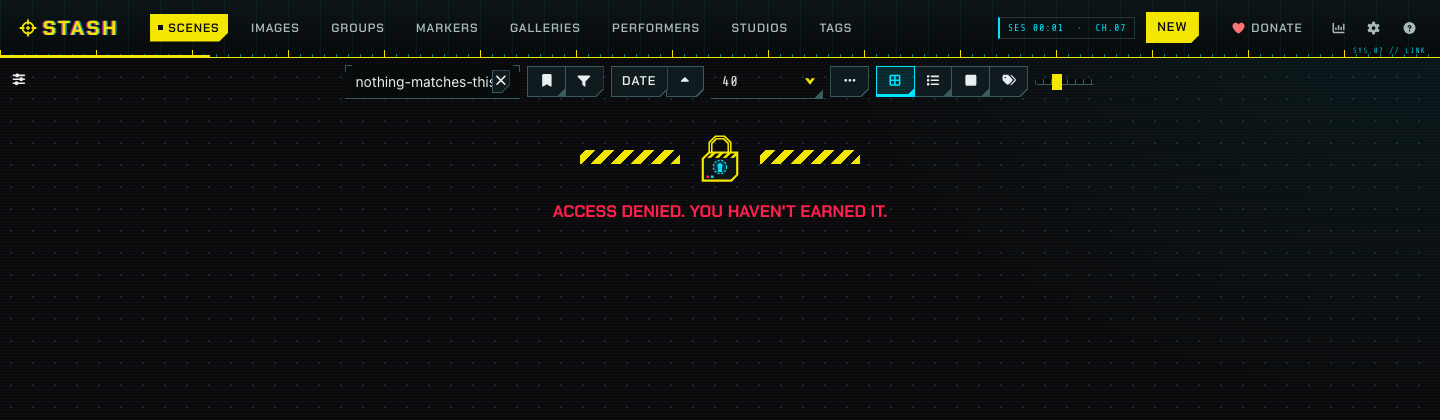
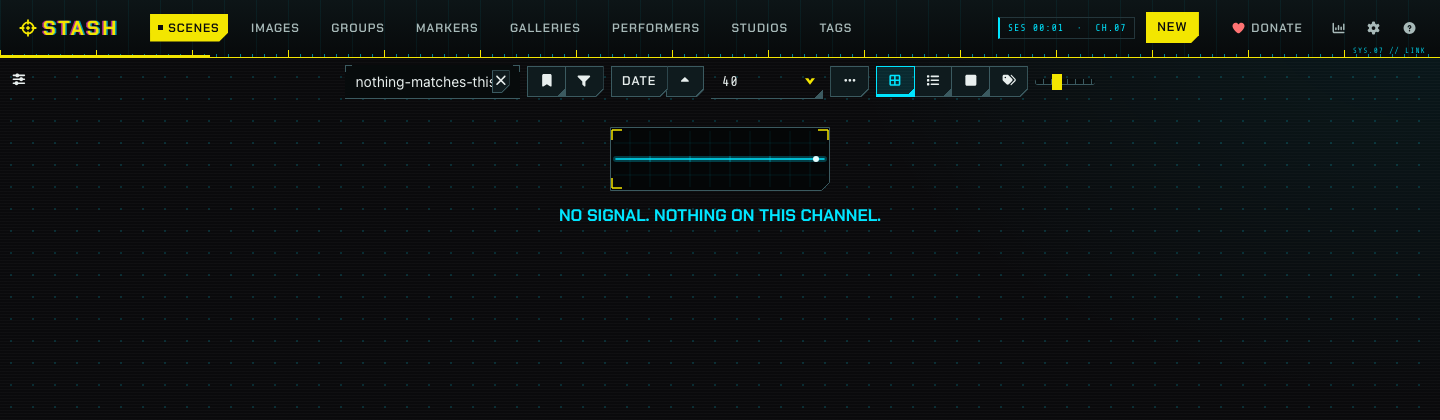
Say No signal on empty lists instead of Access denied
Access denied read like a login failure. An empty list now shows a dead
scope with a flat cyan trace and "No signal. Nothing on this channel.",
and a search with no results says "No signal." The padlock moves to the
design-system page.

Changed region(s): [[0.375, 0.4333, 0.625, 0.5262], [0.4062, 0.3095, 0.5938, 0.4333]]

diff --git a/plugins/overclock/design-system/index.html b/plugins/overclock/design-system/index.html
@@ -174,7 +174,7 @@
             are a deep teal-black. Acid yellow marks what the system wants from
             you: primary buttons, the active tab, ratings and the lock. Data
             cyan carries readouts, info and the scan line. Alert red is kept for
-            danger and denial, magenta appears only as a glitch fringe, and
+            danger and misses, magenta appears only as a glitch fringe, and
             yellow-and-black hazard stripes mark danger and locked states.
           </p>
           <div class="ds-swatches">
@@ -201,7 +201,7 @@
               <div class="meta">
                 <code>--overclock-red</code>
                 <div class="hex">#FF1F4B</div>
-                <div class="role">Alert red: danger and denied</div>
+                <div class="role">Alert red: danger and misses</div>
               </div>
             </div>
             <div class="ds-swatch">
@@ -328,9 +328,10 @@
             Flat technical line art in acid yellow and data cyan on teal-black:
             a neural jack plug on its cable, a targeting reticle, an optical
             implant with an aperture iris, a microchip, a digital padlock with a
-            hazard band, a wired controller and a countdown timer. The padlock
-            ships with the theme for empty lists; the rest appear on this page
-            only. The flat glyphs are CSS masks, so they take any fill.
+            hazard band, a wired controller and a countdown timer. They appear
+            on this page only; the theme ships the glyphs, the hex dump and the
+            flat scope trace for empty lists. The flat glyphs are CSS masks, so
+            they take any fill.
           </p>
           <div class="ds-panel">
             <div class="ds-motifs">
@@ -351,10 +352,9 @@
                 <img src="ds/motifs/chip.svg" alt="" /><span>microchip</span>
               </div>
               <div class="ds-motif">
-                <img
-                  src="Theme-Overclock/assets/icons/padlock.svg"
-                  alt=""
-                /><span>firewall lock</span>
+                <img src="ds/motifs/padlock.svg" alt="" /><span
+                  >firewall lock</span
+                >
               </div>
               <div class="ds-motif">
                 <img src="ds/motifs/deck.svg" alt="" /><span>controller</span>
@@ -921,10 +921,7 @@
         </section>
 
         <section class="ds-section">
-          <h2>
-            <img src="Theme-Overclock/assets/icons/padlock.svg" alt="" />Forms
-            and menus
-          </h2>
+          <h2><img src="ds/motifs/padlock.svg" alt="" />Forms and menus</h2>
           <p class="ds-lede">
             Inputs are dark fields with a bottom rule and corner ticks. Focus
             turns the frame yellow and starts a blinking block. Menus, popovers
@@ -1241,9 +1238,9 @@
           <p class="ds-lede">
             The loader is a segmented bar that counts its percentage up over a
             scrolling hex dump, and Calm mode holds it on a still frame at 64%.
-            An empty list gets an access denied panel with hazard stripes and a
-            lock, and keeps the lock with no line under Plain labels or in SFW
-            mode.
+            An empty list gets a dead scope with a flat cyan trace and the line
+            No signal, and keeps the scope with no line under Plain labels or in
+            SFW mode.
           </p>
           <div class="ds-row" style="align-items: stretch">
             <div class="ds-panel" style="min-width: 260px">

diff --git a/plugins/overclock/src/css/95-sfw.css b/plugins/overclock/src/css/95-sfw.css
@@ -1,13 +1,13 @@
 /*
- * Empty states: access denied, a lock between hazard stripes. Stash marks an
- * empty list with nothing but "0-0 of 0" in .paginationIndex, and
- * overclock.js adds the line; without the voice (Plain labels or SFW mode)
- * the list keeps the lock and no line.
+ * Empty states: no signal, a flat trace on a dead scope. Stash marks an empty
+ * list with nothing but "0-0 of 0" in .paginationIndex, and overclock.js adds
+ * the line; without the voice (Plain labels or SFW mode) the list keeps the
+ * scope and no line. Cyan, since nothing here is an error.
  */
 .overclock-empty,
 .paginationIndex[data-overclock-empty]:not([data-overclock-empty='']) {
   align-items: center;
-  color: var(--overclock-red);
+  color: var(--overclock-cyan);
   display: flex;
   flex-direction: column;
   font-family: var(--overclock-font-display);
@@ -17,25 +17,22 @@
   letter-spacing: 0.06em;
   line-height: 1.15;
   text-align: center;
-  text-shadow: -1px 0 0 rgb(0 229 255 / 40%);
+  text-shadow: 0 0 12px rgb(0 229 255 / 35%);
   text-transform: uppercase;
 }
 
 .overclock-empty::before,
 .paginationIndex[data-overclock-empty]::before {
-  background:
-    url('assets/icons/padlock.svg') center / 58px 58px no-repeat,
-    var(--overclock-hazard) left center / calc(50% - 40px) 14px no-repeat,
-    var(--overclock-hazard) right center / calc(50% - 40px) 14px no-repeat;
+  background: url('assets/icons/flatline.svg') center / contain no-repeat;
   content: '';
-  height: 60px;
-  max-width: 280px;
+  height: 64px;
+  max-width: 220px;
   width: 100%;
 }
 
 .overclock-empty::after {
   color: var(--overclock-dim);
-  content: 'Err 403 · clearance insufficient';
+  content: 'Ch.07 · no carrier';
   font: 0.66rem/1 var(--overclock-font-label);
   letter-spacing: 0.14em;
   text-shadow: none;
@@ -53,7 +50,7 @@
 }
 
 .paginationIndex[data-overclock-empty]:not([data-overclock-empty='']) {
-  color: var(--overclock-red) !important;
+  color: var(--overclock-cyan) !important;
   font-size: 0;
 }
 

diff --git a/plugins/overclock/src/js/overclock.js b/plugins/overclock/src/js/overclock.js
@@ -14,7 +14,7 @@
   const VOICE_COPY = new Map([
     ['Loading…', 'Syncing…'],
     ['Loading plugins…', 'Loading your restraints…'],
-    ['No results found.', 'Access denied.'],
+    ['No results found.', 'No signal.'],
     ['No tasks are currently running.', 'Idle. Hands where I can see them.'],
     ['Performer Favourited', 'Target locked.'],
     ['Started generating', 'Countdown started.'],
@@ -27,7 +27,7 @@
   const EMPTY_STATES = new Set(['No results found.'])
 
   // Stash marks an empty list with nothing but "0-0 of 0" in .paginationIndex.
-  const EMPTY_LIST_LINE = "Access denied. You haven't earned it."
+  const EMPTY_LIST_LINE = 'No signal. Nothing on this channel.'
 
   // Yellow and cyan pixels, data shards, hex digits and a red fringe; SFW
   // mode drops the red.

diff --git a/plugins/overclock/docs/design.md b/plugins/overclock/docs/design.md
@@ -8,21 +8,21 @@ The design-system page (`design-system/index.html`, built to `dist/site/overcloc
 
 Every rule in `src/css` reads these custom properties, because Stash compiles its colours from SCSS and exposes none of its own.
 
-| Token                 | Hex       | Use                                              |
-| --------------------- | --------- | ------------------------------------------------ |
-| `--overclock-yellow`  | `#F3E600` | Primary, active, ratings, the lock, focus        |
-| `--overclock-cyan`    | `#00E5FF` | Readouts, info, links, the scan line, matches    |
-| `--overclock-red`     | `#FF1F4B` | Danger, denied, misses, the glitch's left fringe |
-| `--overclock-magenta` | `#FF2FD0` | Glitch fringe only                               |
-| `--overclock-panel`   | `#0D1416` | Cards, panels, menus                             |
-| `--overclock-raised`  | `#122024` | Raised panels                                    |
-| `--overclock-line`    | `#3B5A60` | Frame lines, brackets, ticks                     |
-| `--overclock-bg`      | `#0A0A0C` | Page, behind a dot grid                          |
-| `--overclock-text`    | `#E8EFEE` | Text                                             |
-| `--overclock-muted`   | `#A8BAB9` | Secondary text, 9.2:1 on panels                  |
-| `--overclock-dim`     | `#86999A` | Captions and labels, 6.2:1 on panels             |
+| Token                 | Hex       | Use                                           |
+| --------------------- | --------- | --------------------------------------------- |
+| `--overclock-yellow`  | `#F3E600` | Primary, active, ratings, the lock, focus     |
+| `--overclock-cyan`    | `#00E5FF` | Readouts, info, links, the scan line, matches |
+| `--overclock-red`     | `#FF1F4B` | Danger, misses, the glitch's left fringe      |
+| `--overclock-magenta` | `#FF2FD0` | Glitch fringe only                            |
+| `--overclock-panel`   | `#0D1416` | Cards, panels, menus                          |
+| `--overclock-raised`  | `#122024` | Raised panels                                 |
+| `--overclock-line`    | `#3B5A60` | Frame lines, brackets, ticks                  |
+| `--overclock-bg`      | `#0A0A0C` | Page, behind a dot grid                       |
+| `--overclock-text`    | `#E8EFEE` | Text                                          |
+| `--overclock-muted`   | `#A8BAB9` | Secondary text, 9.2:1 on panels               |
+| `--overclock-dim`     | `#86999A` | Captions and labels, 6.2:1 on panels          |
 
-Yellow marks what the system wants from the viewer. Cyan carries information. Red is kept for danger and denial, and yellow-and-black hazard stripes (`--overclock-hazard`) mark danger and locked states and nothing else.
+Yellow marks what the system wants from the viewer. Cyan carries information. Red is kept for danger and misses, and yellow-and-black hazard stripes (`--overclock-hazard`) mark danger and locked states and nothing else.
 
 ## Type
 
@@ -34,7 +34,7 @@ Two fixed layers sit behind the page, under every picture: a faint cyan dot grid
 
 ## Motifs and glyphs
 
-The motifs are flat technical line art in yellow and cyan on teal-black: a neural jack plug on its cable, a targeting reticle, an optical implant with an aperture iris, a microchip, a digital padlock with a hazard band, a wired controller and a countdown timer. Only the padlock ships in the plugin, for empty lists; the rest live with the design-system page (`design-system/ds/motifs`), which keeps the plugin small.
+The motifs are flat technical line art in yellow and cyan on teal-black: a neural jack plug on its cable, a targeting reticle, an optical implant with an aperture iris, a microchip, a digital padlock with a hazard band, a wired controller and a countdown timer. They live with the design-system page (`design-system/ds/motifs`), which keeps the plugin small. The plugin ships the glyphs, the hex dump behind the loader and `flatline.svg`, a dead scope with a flat trace for empty lists.
 
 Glyphs (`glyph-*.svg`) are flat silhouettes used as CSS masks, so one file takes any fill: `glyph-charge` and `glyph-charge-outline` for a rating and an empty rating, `glyph-reticle-open` and `glyph-reticle` for the favourite off and on, `glyph-bolt` for the O counter and `glyph-shard` for bursts.
 
@@ -48,7 +48,7 @@ Glyphs (`glyph-*.svg`) are flat silhouettes used as CSS masks, so one file takes
 - **Tags** are clipped mono chips with a cyan status light.
 - **Forms** are dark fields with a bottom rule and corner ticks. Focus turns the frame yellow and starts a blinking block cursor. Checkboxes and switches are square.
 - **Overlays** (menus, popovers, tooltips, toasts and modals) are clipped teal-black panels with a yellow left rule. A toast carries a `STASH` band and a message number, with a red variant for errors. A modal's header is a plain HUD bar, or a hazard band when its footer holds a danger button.
-- **Loading** is a segmented bar that counts its percentage up over a scrolling hex dump. **Empty lists** show a lock between two hazard stripes and the access-denied line.
+- **Loading** is a segmented bar that counts its percentage up over a scrolling hex dump. **Empty lists** show a dead scope with a flat cyan trace and the line No signal, in cyan, since an empty list is not an error.
 - **Stash-box screens** (the Tagger, scrape dialogs, StashID links and Identify) are where people clear hundreds of rows, so nothing in them glitches, scans or moves, pseudo-elements and transitions included. The chosen result takes a yellow edge and the chosen select a yellow frame. Matches read cyan, warnings yellow and misses red, and StashID links are a cyan tag.
 
 ## Motion
@@ -57,11 +57,11 @@ Hovering a nav link, a button, a tab, a tag or a card title glitches it for 170m
 
 ## Copy
 
-The system voice swaps a short list of Stash's own messages for short, cold lines (the list is `VOICE_COPY` in `src/js/overclock.js`). Matches are exact and whole-text, so titles, tags and descriptions are never touched. An empty list, where Stash shows only "0-0 of 0", also gets "Access denied. You haven't earned it." The Plain labels setting turns all of it off and leaves the lock.
+The system voice swaps a short list of Stash's own messages for short, cold lines (the list is `VOICE_COPY` in `src/js/overclock.js`). Matches are exact and whole-text, so titles, tags and descriptions are never touched. An empty list, where Stash shows only "0-0 of 0", also gets "No signal. Nothing on this channel." The Plain labels setting turns all of it off and leaves the scope.
 
 ## SFW mode
 
-Stash's SFW content mode keeps the display and drops the voice: the copy is off, bursts lose their red, and an empty list shows the lock with no line. Stash's own SFW icon for the O counter (a thumbs-up) is left alone.
+Stash's SFW content mode keeps the display and drops the voice: the copy is off, bursts lose their red, and an empty list shows the scope with no line. Stash's own SFW icon for the O counter (a thumbs-up) is left alone.
 
 ## Settings
 

diff --git a/plugins/overclock/README.md b/plugins/overclock/README.md
@@ -33,17 +33,17 @@ Overclock's settings sit with the plugin under Settings > Plugins. Both start of
 
 ![Overclock's two settings under Settings > Plugins](docs/screenshots/settings.png)
 
-Overclock also follows your system's reduced-motion setting. In Stash's SFW content mode it keeps the display, drops the system voice and the red from the bursts, and shows the lock without a line on an empty list.
+Overclock also follows your system's reduced-motion setting. In Stash's SFW content mode it keeps the display, drops the system voice and the red from the bursts, and shows the dead scope without a line on an empty list.
 
 Overclock makes no network requests beyond your own Stash server. Its fonts, Chakra Petch and Share Tech Mono, ship inside the plugin, which is about 100 KB.
 
 ## Screenshots
 
-| Scene                                                       | Performers                                                         |
-| ----------------------------------------------------------- | ------------------------------------------------------------------ |
-| ![A scene page with the player](docs/screenshots/scene.png) | ![The performers page](docs/screenshots/performers.png)            |
-| **The Tagger**                                              | **An empty list**                                                  |
-| ![The scene Tagger](docs/screenshots/tagger.png)            | ![An empty list behind hazard stripes](docs/screenshots/empty.png) |
+| Scene                                                       | Performers                                                                     |
+| ----------------------------------------------------------- | ------------------------------------------------------------------------------ |
+| ![A scene page with the player](docs/screenshots/scene.png) | ![The performers page](docs/screenshots/performers.png)                        |
+| **The Tagger**                                              | **An empty list**                                                              |
+| ![The scene Tagger](docs/screenshots/tagger.png)            | ![An empty list with a flat trace on a dead scope](docs/screenshots/empty.png) |
 
 <img src="docs/screenshots/phone.png" alt="The scenes page at phone width, with the navbar docked at the bottom" width="260">
 
@@ -60,7 +60,7 @@ The repo's [README](../../README.md) covers building, testing and releasing. Ove
 - `src/Theme-Overclock.yml` is the plugin manifest.
 - `src/css/` holds numbered partials that the build joins into one `overclock.css`.
 - `src/js/overclock.js` adds the bursts, the system voice and the settings.
-- `src/icons/` holds the glyph masks, the padlock for empty lists and the hex dump behind the loader.
+- `src/icons/` holds the glyph masks, the flat scope trace for empty lists and the hex dump behind the loader.
 - `design-system/` is the design-system page, published at `/overclock/`. It loads the built theme over Bootstrap 4.6, which stands in for Stash's own styles, and keeps the motifs the plugin does not ship.
 - `tests/` holds Overclock's compatibility checks and screenshot baselines.
 - `plugin.mjs` tells the shared build what goes into the plugin folder.

diff --git a/plugins/overclock/CHANGELOG.md b/plugins/overclock/CHANGELOG.md
@@ -11,7 +11,7 @@ First release, for Stash v0.31.1.
 - Hovering a button, a tab, a tag or a card title glitches it for 170ms: the type jumps and splits red and cyan. Nothing moves or resizes under the pointer.
 - Fields have corner ticks and a blinking block cursor on focus. Delete dialogs carry a hazard-striped header.
 - The Tagger's rows stay flat and still. Matches read cyan, warnings yellow and misses red, and StashID links are a cyan tag.
-- A segmented loader that counts its percentage up over a scrolling hex dump, and an access-denied lock between hazard stripes on empty lists.
+- A segmented loader that counts its percentage up over a scrolling hex dump, and a dead scope with a flat cyan trace and No signal on empty lists.
 - The voice of the system running the session for a short list of Stash's messages, matched whole so titles, tags and descriptions are never touched.
 - Bursts of pixels, data shards and hex digits on rating, favouriting and the O counter.
 - Calm mode and Plain labels settings. Stash's SFW mode keeps the display and drops the voice.
